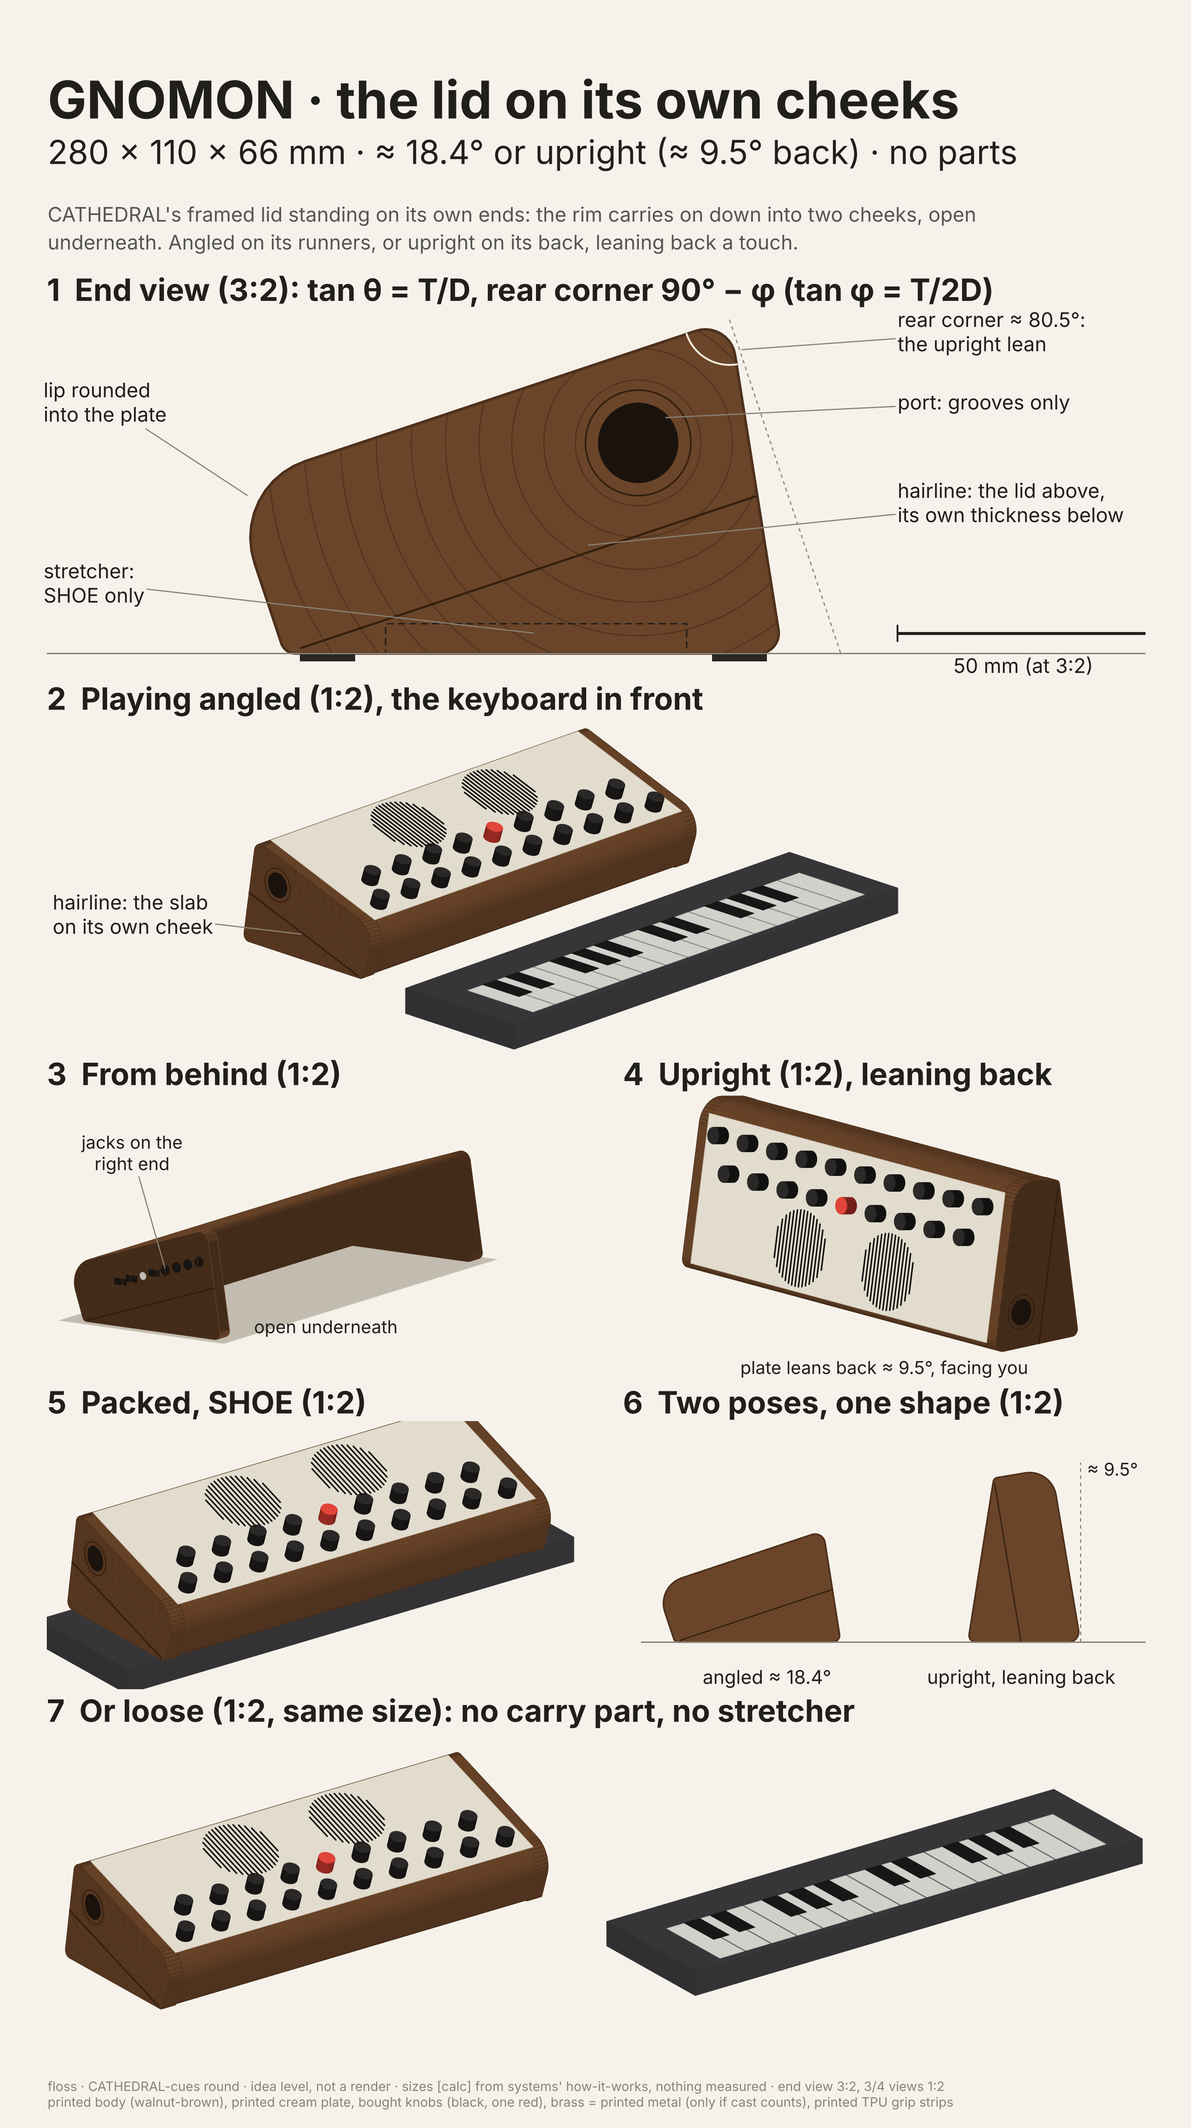
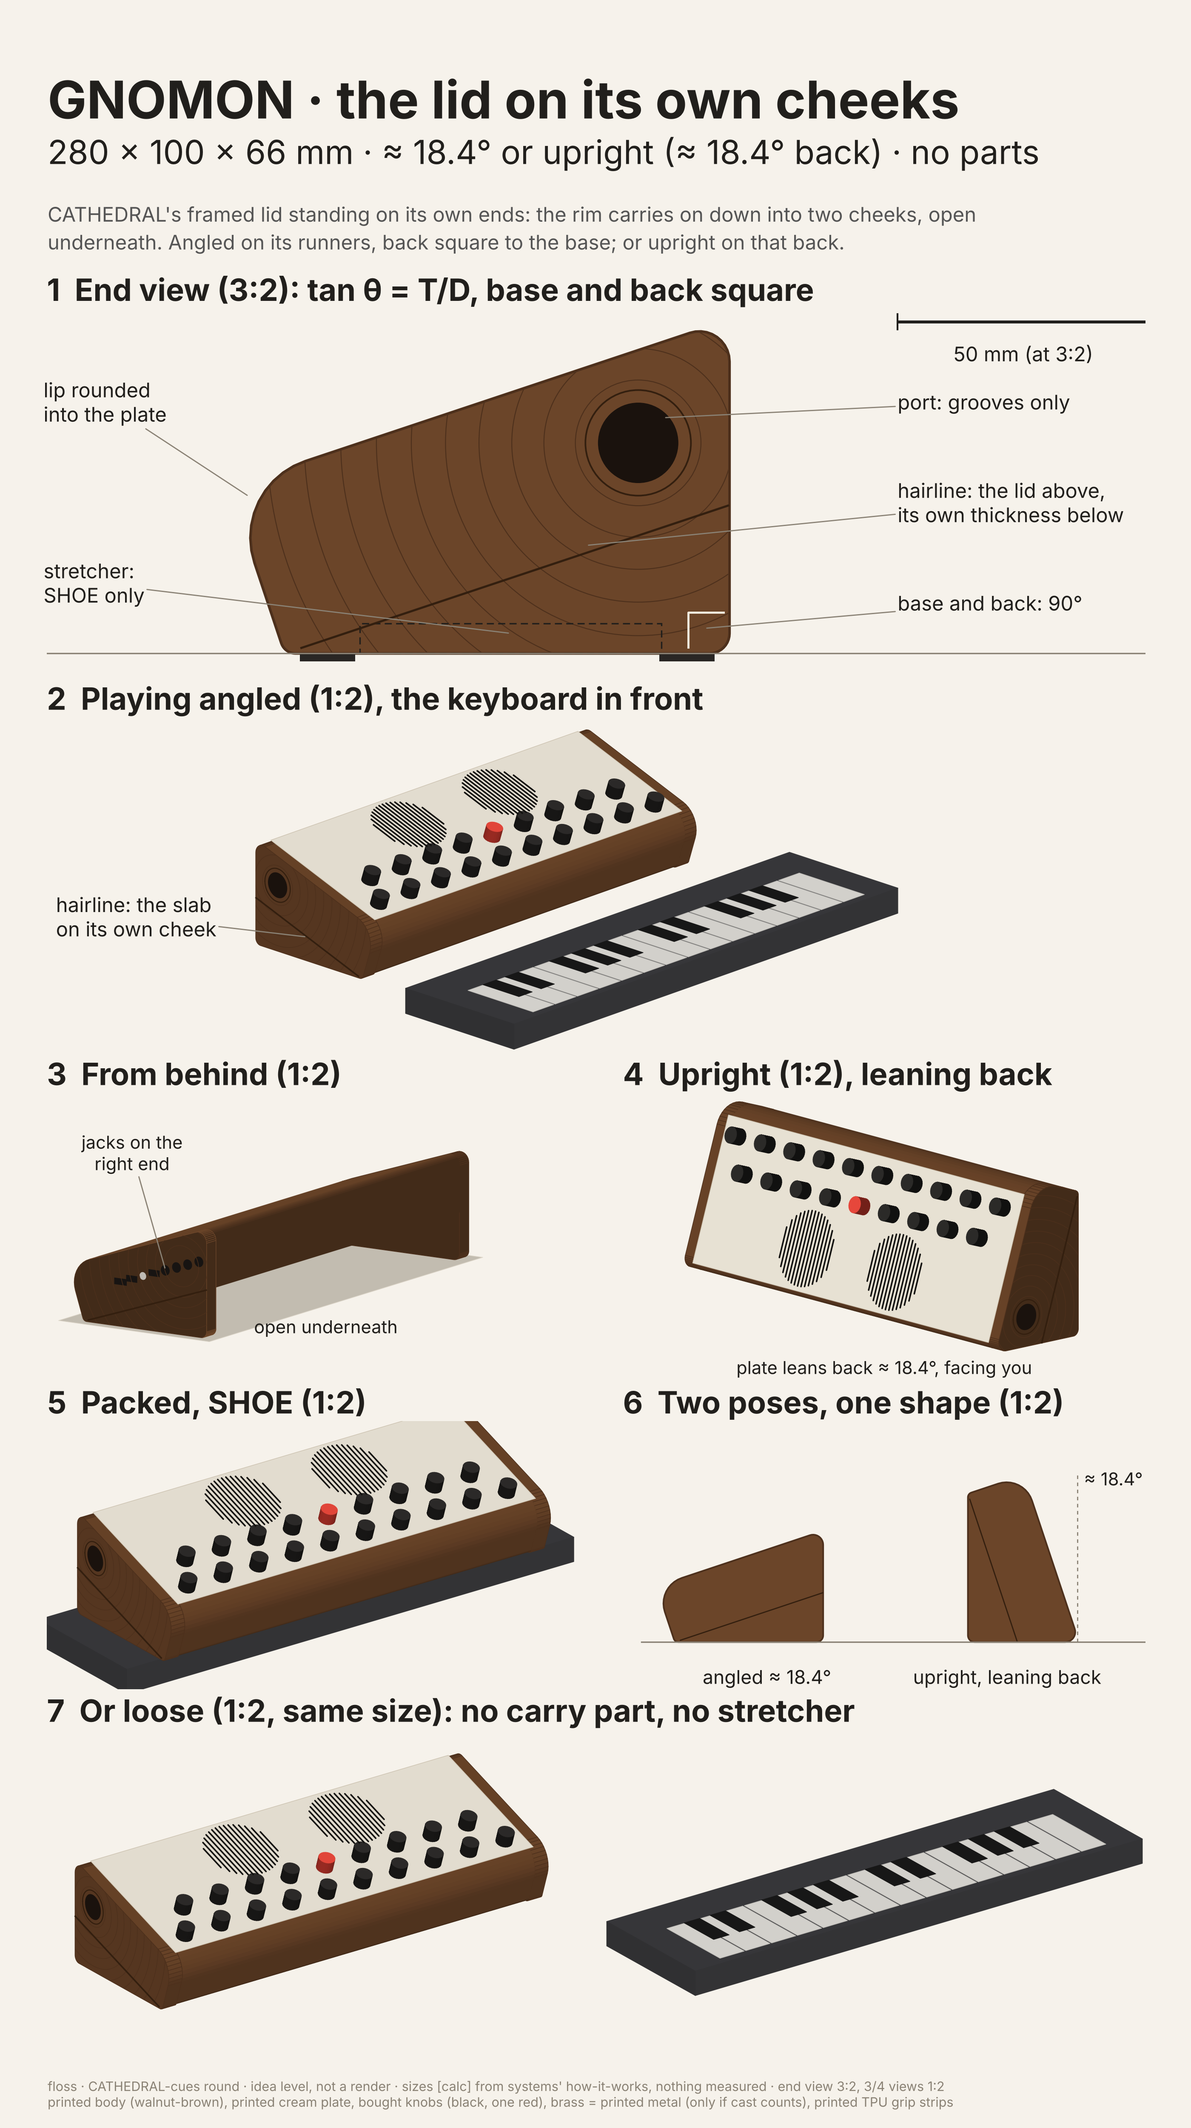
floss: GNOMON sheet rev 4

diff --git a/floss/design/concepts/_src/cathedral_sheets.py b/floss/design/concepts/_src/cathedral_sheets.py
@@ -418,7 +418,7 @@ def sheet_gnomon(path):
     # fix 6: the rear face runs square to the plate from bt down to the table
     # rev 3 (owner: "Reverse the angle on the side behind the speakers so there's still a subtle angle when upright"):
     # the rear face closes to (90 - phi) with the plate, tan(phi) = T / 2D, so upright the plate leans back phi.
-    PHI = math.atan(GN_T/(2*GN_D))
+    PHI = GN_TH     # rev 4 (owner: "Make the base and the back 90 degrees when sitting flat"): back vertical, upright lean = theta
     dang = GN_TH - math.pi/2 - PHI
     dv = (math.cos(dang), math.sin(dang))
     Lr = bt[1]/(-dv[1])
@@ -502,7 +502,7 @@ def sheet_gnomon(path):
         if far_is_right: extrude(Lfar, cam, prof, W-CHK, W, WAL, ec=WALD)
         else: extrude(Lfar, cam, prof, 0, CHK, WAL, cap_extra=cap_left(prof, port, hair), ec=WALD)
         if stretcher:
-            Ls = sc.layer(); box(Ls, cam, CHK, W-CHK, 20, 80, 0, 6, WALD)
+            Ls = sc.layer(); box(Ls, cam, CHK, W-CHK, 15, 75, 0, 6, WALD)
         L = sc.layer(); extrude(L, cam, slab, CHK, W-CHK, WAL)
         Lnear = sc.layer()
         if far_is_right:
@@ -532,12 +532,12 @@ def sheet_gnomon(path):
     prof, slab, port, hair, ftt, th, jk = geo(ident)
     fig = new_sheet("GNOMON · the lid on its own cheeks",
                     "CATHEDRAL's framed lid standing on its own ends: the rim carries on down into two cheeks, open underneath. "
-                    "Angled on its runners, or upright on its back, leaning back a touch.",
-                    f"280 × 110 × 66 mm · ≈ {math.degrees(GN_TH):.1f}° or upright (≈ {math.degrees(PHI):.1f}° back) · no parts",
+                    "Angled on its runners, back square to the base; or upright on that back.",
+                    f"280 × 100 × 66 mm · ≈ {math.degrees(GN_TH):.1f}° or upright (≈ {math.degrees(PHI):.1f}° back) · no parts",
                     scales="end view 3:2, 3/4 views 1:2")
     # 1. end view
     box_mm = (14, 433, 328, 110)
-    heading(fig, box_mm, "1  End view (3:2): tan θ = T/D, rear corner 90° − φ (tan φ = T/2D)")
+    heading(fig, box_mm, "1  End view (3:2): tan θ = T/D, base and back square")
     ax = axes_mm(fig, box_mm, 1.5, (62, 32))
     poly = Polygon(prof, closed=True, fc=WAL, ec=WALD, lw=2.2, joinstyle="round"); ax.add_patch(poly)
     rmax = max(math.hypot(y-port[0], z-port[1]) for y, z in prof); r = 12.5
@@ -547,22 +547,17 @@ def sheet_gnomon(path):
     ax.add_patch(Circle(port, 8, fc=(0.10, 0.07, 0.05), ec="none"))
     ax.add_patch(Circle(port, 10.5, fc="none", ec=(0.20, 0.12, 0.06), lw=1.4))
     for (y0, y1) in ((3, 14), (Rq[0]-14, Rq[0]-3)): ax.add_patch(Rectangle((y0, -1.6), y1-y0, 1.6, fc=TPU, ec="none"))
-    ax.add_patch(Rectangle((20, 0), 60, 6, fc="none", ec=INK, lw=1.2, ls=(0, (5, 3))))
+    ax.add_patch(Rectangle((15, 0), 60, 6, fc="none", ec=INK, lw=1.2, ls=(0, (5, 3))))
     # right-angle mark at bt
-    a0 = math.atan2(-sth, -cth); a1 = dang; ra = 9
-    arc = [(bt[0]+ra*math.cos(a0+(a1-a0+2*math.pi) % (2*math.pi)*k/30 - 0), bt[1]+ra*math.sin(a0+((a1-a0) % (2*math.pi))*k/30)) for k in range(31)]
-    arc = [(bt[0]+ra*math.cos(a0+((a1-a0) % (2*math.pi))*k/30), bt[1]+ra*math.sin(a0+((a1-a0) % (2*math.pi))*k/30)) for k in range(31)]
-    ax.plot([p[0] for p in arc], [p[1] for p in arc], color=CREAM, lw=1.6)
-    # ghost of rev 2's square rear face, for the eye
-    sq = (bt[0] + 2*GN_T*sth, bt[1] - 2*GN_T*cth)
-    ax.plot([bt[0], sq[0]], [bt[1], sq[1]], color=GREY, lw=1.0, ls=(0, (3, 3)))
+    k = 7; cx, cz = Rq[0]-1.2, 1.2
+    ax.plot([cx-k, cx-k, cx], [cz, cz+k, cz+k], color=CREAM, lw=1.8)
     ground(ax, -50, 175)
-    leader(ax, (bt[0]+2, bt[1]-6), f"rear corner ≈ {90-math.degrees(PHI):.1f}°:\nthe upright lean", (122, 64))
+    leader(ax, (Rq[0]-5, 5), "base and back: 90°", (122, 10))
     leader(ax, (port[0]+5, port[1]+5), "port: grooves only", (122, 50))
     leader(ax, (60, 21.5), "hairline: the lid above,\nits own thickness below", (122, 30))
     leader(ax, (ft[0]+4, ft[1]-2), "lip rounded\ninto the plate", (-48, 50))
-    leader(ax, (50, 4), "stretcher:\nSHOE only", (-48, 14))
-    scale_bar(ax, 122, 4, 50, "50 mm (at 3:2)")
+    leader(ax, (45, 4), "stretcher:\nSHOE only", (-48, 14))
+    scale_bar(ax, 122, 66, 50, "50 mm (at 3:2)")
     # 2. playing
     cam = Cam(46, 20); sc = Scene(cam); build(sc, cam, kb_front=True)
     box_mm = (14, 321, 328, 100)

diff --git a/floss/design/concepts/c-gnomon/how-it-looks-and-feels.md b/floss/design/concepts/c-gnomon/how-it-looks-and-feels.md
@@ -1,94 +1,76 @@
-# GNOMON: how it looks and feels (visual, idea level) — rev 3
+# GNOMON: how it looks and feels (visual, idea level) — rev 4
 
-2026-11-22. PROPOSAL (the director's idea). Round 1 score: 8. Rev 2 folds in the director's fixes 1–6 (`notes/director.md`) and systems' `how-it-works.md` rev 2. That file sets the geometry:
-- tan θ = T / D ≈ 18.4° (T 35, D 105);
-- the rear face is 2T = 70, square to the plate;
-- the back stands ≈ 66 tall;
-- angled footprint 280 × 111; overall ≈ 280 × 122 × 66, including the front face's forward lean.
+2026-11-22. PROPOSAL (the director's idea). Read with systems' `how-it-works.md` rev 4, which sets the geometry.
 
-Picture: `sheet.png` (14 × 25 in at 200 dpi: end view 3:2, 3/4 views 1:2). Source: `../_src/cathedral_sheets.py`, `sheet_gnomon()`.
+**Picture:** `sheet.png` (14 × 25 in at 200 dpi; end view 3:2, 3/4 views 1:2). **Source:** `../_src/cathedral_sheets.py`, `sheet_gnomon()`.
 
+## The owner's words this revision follows (verbatim)
+- "Reverse the angle on the side behind the speakers so there’s still a subtle angle when upright" (rev 3).
+- "I don’t like the angle on the back when laying flat. Make the base and the back 90 degrees when sitting flat" (rev 4, which replaces rev 3's back angle).
 
-## Rev 3 (2026-11-22): the owner's change, drawn
-**Owner, verbatim:** "Reverse the angle on the side behind the speakers so there's still a subtle angle when upright".
-
-Systems' `how-it-works.md` rev 3 turns that into geometry:
-- the corner behind the speakers closes to ≈ 80.5° (tan φ = T / 2D, φ ≈ 9.5°);
-- the angled pose is unchanged at ≈ 18.4°;
-- the rear face is ≈ 67.2 (≈ 1.9T);
-- the angled footprint is 280 × ≈ 99 (overall ≈ 280 × 110 × 66).
-
-**On the sheet:**
-- **End view:** the rear face now leans in about half as much as rev 2's. I marked the corner with an arc labelled "rear corner ≈ 80.5°: the upright lean", plus a faint dashed ghost of rev 2's square face. You can read the change without a dimension.
-- **Upright 3/4 (view 4):** seen more from the side (camera 48° round, 14° up), so the end face shows the lean. Caption: "plate leans back ≈ 9.5°, facing you".
-- **Two poses (view 6):** the upright silhouette has a dashed vertical beside the plate, marked ≈ 9.5°. This is where the lean reads as deliberate: small, measured, and from the slab's own numbers.
-- **Title line:** "≈ 18.4° or upright (≈ 9.5° back)".
-- **Hairline:** it now ends where the slab's underside meets the new rear face. It still sits T below the plate, so it still shows the lid plus its own thickness.
-
-**Why it looks right:**
-- Upright, a dead-vertical plate reads as a radio front.
-- Leaning back ≈ 9.5° reads as a music stand or an easel: the face is offered *up* to you, and the drivers aim slightly up toward the ear.
-- From the side, the rear face still leans in like a buttress, now more gently.
-- The angle is half the angled pose's slope (T / 2D against T / D). It's one family of numbers, and that's what makes it look intended rather than off.
-
-**Superseded in the rev 2 text below:** "plate and rear face square", "rear face 2T", "plate exactly vertical", "280 × 111 footprint" and "≈ 122 deep". Read the rev 3 numbers above instead.
+## Geometry, as drawn ([calc] from how-it-works rev 4; nothing measured)
+- **Slab:** T 35, D 105. **Playing angle:** tan θ = T / D ≈ 18.4°.
+- **Back:** vertical in the playing pose, **square to the base (90°)**. The corner behind the speakers is 90° − θ ≈ 71.6°.
+- **Upright:** stood on that back, the plate leans back by the same ≈ 18.4°. One angle serves both poses.
+- **Sizes:** the back is ≈ 66.4 tall; footprint 280 × ≈ 88.5; overall ≈ 280 × 100 × 66, including the front face's forward lean.
+- **Stretcher (SHOE only):** y ≈ 15–75 on the runner line.
+- **Flat:** not offered.
 
 ## The idea, as you see it
 CATHEDRAL's lid standing on its own ends. A framed slab of constant thickness. At each end the rim carries on down into a cheek, and the slab is open underneath between the cheeks.
 
-The end face is a true gnomon: the plate and the rear face meet square, and the table line closes it. So **one shape has two feet**:
-- **angled** on its runners (≈ 18.4°), his first choice;
-- **upright** on its rear face, with the plate exactly vertical and turned to face you, his "90". The drivers then fire straight at the listener.
+Seen from the end, in the playing pose, it's a calm shape:
+- a flat base and a **vertical back meeting it square**;
+- the plate sloping down from the top of the back to a rounded front lip.
 
-There are no parts and nothing moves. **Flat is not offered;** he ranked it last.
-
-## What changed in this pass, and why
-| Fix | What I drew | Why |
-|---|---|---|
-| 1. Hairline | One engraved hairline on each end face, parallel to the plate and one slab thickness (T) below it, from the front foot to the rear face. The face stays flush and the rings run straight across it | The end face now reads as **the lid plus its own thickness** (2T at the back) without turning into a box on legs. It's the family's section-rule mark, the same as CATHEDRAL's sub-heading hairline |
-| 2. Rear 3/4 | View 3: from behind, low (12°), on a light footprint. You see the slab spanning between the two cheeks with the hollow under it, and the right end with its jacks | This is the view that proves it isn't a solid wedge. **The front 3/4 can't show the hollow** (the front edge sits on the table), so the idea needs this second view. The front view carries the hairline instead |
-| 3. Port | No brass ring. A Ø 16 dark mouth, one narrow groove ring round it, and the growth rings centred on the mouth (in the slab band, high on the left cheek) | The ring read as a hose fitting and became the focal point. Now the rings are the subject and the mouth is their heart. If cast metal counts, a narrow flush brass ring is still possible, but I don't recommend it |
-| 4. Lip | The front face rounded into the plate (r 16, against r 6 on the other corners) | The end view stops reading as a chamfered pentagon. The front becomes a soft nose your wrist rests on |
-| 5. Packed | View 5: on SHOE (with the stretcher). View 7: loose, module and keyboard separate, at the **same 1:2** | Shows it doesn't depend on SHOE. The stretcher exists only with SHOE (director ruling) |
-| 6. Square rear face | The end view rebuilt as a gnomon with a right-angle mark at the back corner. View 4: upright 3/4. View 6: both poses as end silhouettes side by side | His "angled, 90, flat" order, met by shape alone. Upright, the rear face leans in like a buttress: a cathedral cue with a structural reason |
+Turn it onto that back and it stands upright, with the plate offered up to you at the same angle it had on the table.
 
 ## Why the shape (not costume)
-- **The slab is the instrument.** The cheeks are the rim carried down, not legs.
-- **Every proportion comes from the slab itself:** the rear face is 2T, and the angle is tan⁻¹(T / D). Nobody picked them.
-- **The two poses fall out of one right angle.** That right angle is the gnomon, and also the reason for the name.
-- **One flush end face** with growth rings across it reads as one block of wood. The hairline tells you which part is the lid.
+- **The slab is the instrument;** the cheeks are the rim carried down.
+- **Every proportion comes from the slab's two numbers.** The angle is tan⁻¹(T / D). The back's height is the plate's rise plus the slab's thickness.
+- **The square base-and-back corner is his call, and it reads well.** On the table it's a quiet, architectural profile, a block with one sloped face, not a leaning wedge. Upright, the same corner becomes the foot, and the lean comes free.
+- **One angle for both poses** makes the object easy to read: it has one slope. Whichever way it sits, it's tipped toward you by the same amount.
+
+## On the sheet
+| View | What it shows |
+|---|---|
+| 1. End view (3:2) | The square base-and-back corner marked; the engraved hairline one slab thickness below the plate (the lid plus its own thickness); growth rings centred on the port mouth; the lip rounded into the plate; the stretcher dashed (SHOE only) |
+| 2. Playing (1:2) | Angled, with the keyboard in front. The end face's hairline and rings carry the "slab on its cheek" idea in the view the owner judges |
+| 3. From behind (1:2) | Low, so the open underside between the cheeks shows; the jacks on the right end |
+| 4. Upright (1:2) | On its back, the plate leaning back ≈ 18.4°, facing you |
+| 5. Packed on SHOE (1:2) | With the stretcher |
+| 6. Two poses (1:2) | Both end silhouettes, with a dashed vertical beside the upright plate marking ≈ 18.4° |
+| 7. Loose (1:2, same size) | Module and keyboard separate: no carry part, no stretcher |
 
 ## CATHEDRAL cues it carries
 | Cue | On GNOMON |
 |---|---|
-| Framed plate | CATHEDRAL's lid: cream plate in a walnut rim, soft corners |
+| Framed plate | CATHEDRAL's lid: cream plate, walnut rim, soft corners |
 | Lancet grille | Two round lancet windows in the plate, over speaker E's drivers |
-| Cathedral grain | Growth rings across both end faces, centred on the port mouth (left end) |
-| Section-rule hairline | The end-face hairline, at T below the plate |
-| Soft architectural corners | Every end-face corner rounded; the lip the most |
-| Brass, the one metal | **None drawn.** The port is grooves; the grip strips are printed TPU. Brass returns only if the owner says cast counts *and* it earns a job |
+| Cathedral grain | Growth rings across both end faces, centred on the port mouth (left end, slab band) |
+| Section-rule hairline | On each end face, T below the plate |
+| Soft architectural corners | Every end-face corner rounded; the lip most (r 16) |
+| Brass, the one metal | None drawn: the port is grooves, the grip strips are printed TPU |
 | Black knobs, one red hero | Two rows, DEPTH in red |
-| Pipe façade | None (no surface that's seen in normal use) |
+| Pipe façade | None (no surface seen in normal use) |
 
 ## Ports, as drawn
-- **Port mouth:** left end, in the slab band.
-- **Jacks, power, device USB-C, TUNE and split:** one row in the slab band of the right end face. They're small at 1:2, so view 3 has a leader.
-- **Host USB-C:** on the front face. It's on top when upright; it isn't drawn at this scale.
-- **Rear face:** a foot, with TPU strips and nothing mounted.
+- **Port mouth:** left end, slab band.
+- **Jacks, power, device USB-C, TUNE, split:** one row in the slab band of the right end.
+- **Host USB-C:** on the front face, which is on top when upright (not drawn at this scale).
+- **Back:** the upright foot, with TPU strips and nothing mounted.
 
 ## Materials (all printed except the knobs)
 - Slab and cheeks: printed walnut-brown, rings and hairline printed in.
 - Plate: printed cream.
-- TPU grip strips on the runners and the rear face.
+- TPU grip strips on the runners and the back.
 - Knobs: bought, black, one red.
 - Stretcher (SHOE only): one flat print.
 
 ## Feel
-- **Angled:** a lap desk. One runner per thigh, your wrist on the rounded lip, the plate at a writing angle.
-- **Upright:** a small radio-like front for listening, a shelf, or a friend across the table. It's for light knob turns; the systems file gives about 1–1.5 N of pull on the top edge before it tips toward you.
-- **Carrying:** pick it up by the back, where the slab and cheeks meet.
+- **Angled:** a lap desk. Your wrist rests on the rounded lip, the plate is at a writing angle, and the square back gives your hand a clean edge to lift it by.
+- **Upright:** a music stand. The plate is tipped back ≈ 18°, so the face is offered up to you and the drivers aim up toward the ear. It's for listening, a shelf, a friend across the table, and light knob turns; systems' stability table has the limits.
 
 ## Open
-- The owner judges the 3/4 view. The front 3/4 still shows a wedge-like object. What tells it apart is the end face (hairline, rings, rounded lip), backed by the rear 3/4 and the upright pose. Whether that's enough is the director's call.
-- What "90" is for, playing or standing it up, is still a question for the owner (director's note). It changes how much the upright pose matters for hands.
-- Systems says D 115 gives 16.9°; the sheet is drawn at D 105.
+- **"90":** is upright for playing or for standing it up (owner)? Systems' rev 4 stability figures apply.
+- **D 105 vs 115 (eng):** at 115 the angle is ≈ 16.9° in both poses.

diff --git a/floss/design/notes/visual.md b/floss/design/notes/visual.md
@@ -463,3 +463,34 @@ Director rules (YOKE in or out; knob preference to send to the owner). Then, for
 **Open:** systems' note that if the owner meant the literal mirror (≈ 37° lean), it's one number to change.
 
 **Next:** the director re-checks; then it goes back to the owner.
+
+---
+
+## 2026-11-22 (late night, 2): GNOMON rev 4, base and back square
+
+**Owner, verbatim:** "I don’t like the angle on the back when laying flat. Make the base and the back 90 degrees when sitting flat".
+
+**Systems rev 4:**
+- the back is vertical in the playing pose (square to the base);
+- the corner behind the speakers is 90° − θ ≈ 71.6°;
+- playing angle ≈ 18.4°; upright the plate leans back ≈ 18.4° (one angle for both poses; tan φ = T/2D dropped);
+- the back ≈ 66.4; footprint 280 × ≈ 88.5; overall ≈ 100 × 66;
+- stretcher at y ≈ 15–75.
+
+**Updated in place:**
+- **`sheet.png`:**
+  - end view: a right-angle mark at the base/back corner, labelled "base and back: 90°"; rev 3's 80.5° arc and the ghost line are gone; the scale bar moved top right;
+  - the stretcher moved;
+  - the upright view and the two-poses view now show the ≈ 18.4° lean (the two-poses view with a dashed vertical);
+  - title "280 × 100 × 66 mm · ≈ 18.4° or upright (≈ 18.4° back)".
+
+  Code: `PHI = GN_TH` in `sheet_gnomon()`.
+- **`how-it-looks-and-feels.md`** rewritten clean as rev 4. The stale rev 2 and rev 3 claims (2T back, square plate-to-back corner, 9.5° lean, 111 / 99 footprints) are gone.
+
+**Visual read:** one slope for both poses reads simply. On the table the square back makes a quiet, architectural block; upright it's a music stand, not a radio front.
+
+**Open:**
+1. Upright for playing or for display (owner).
+2. D 105 vs 115 (eng).
+
+**Next:** the director re-checks, then it goes back to the owner.
